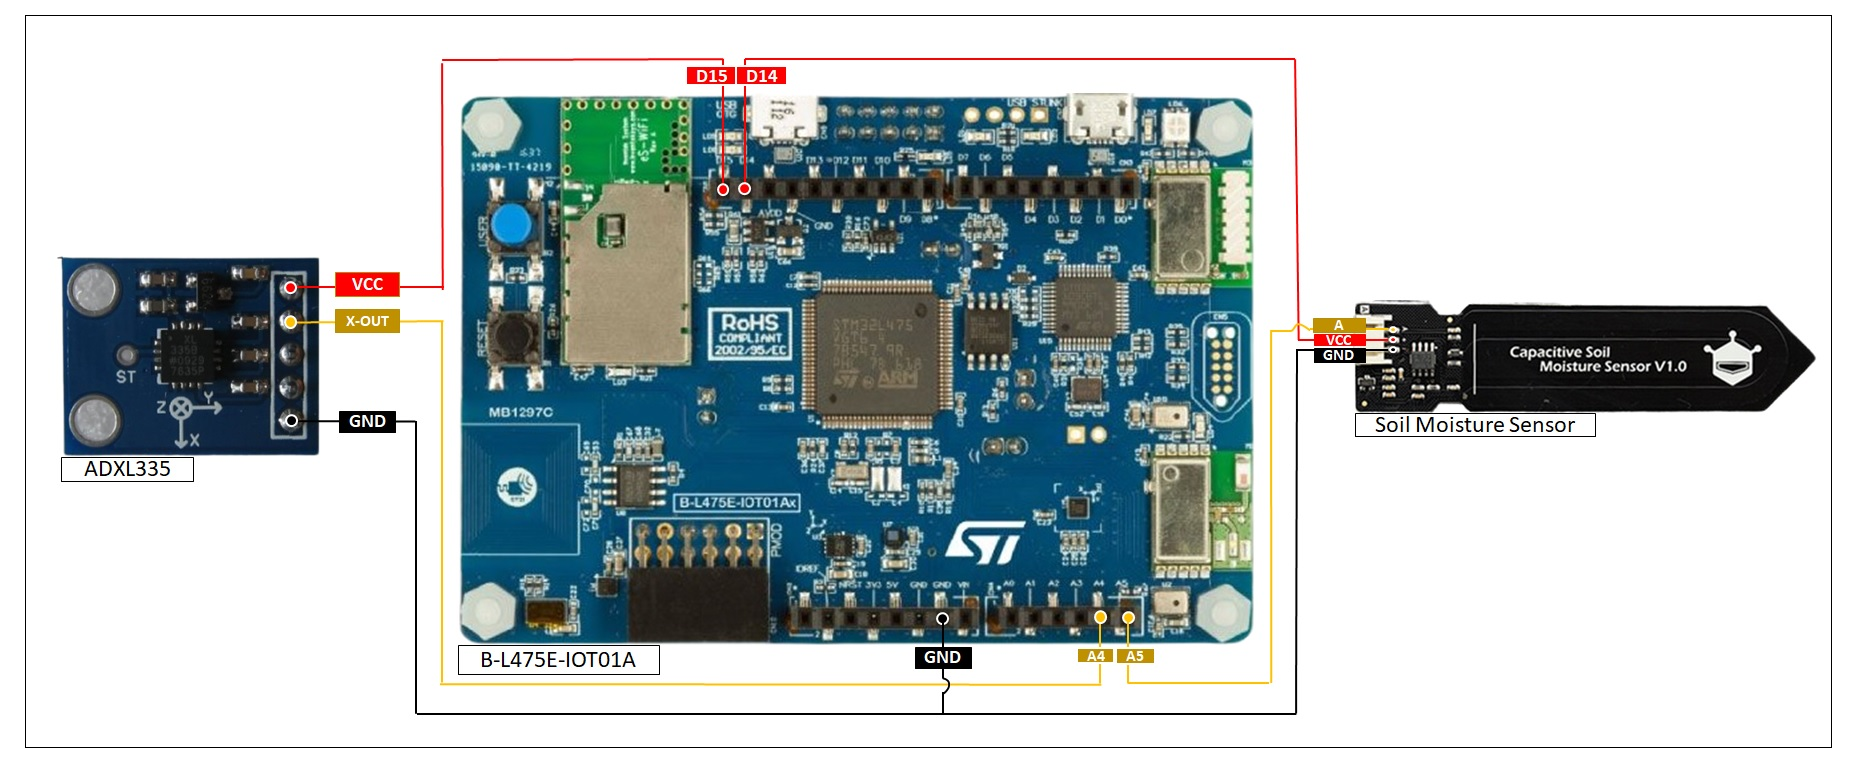
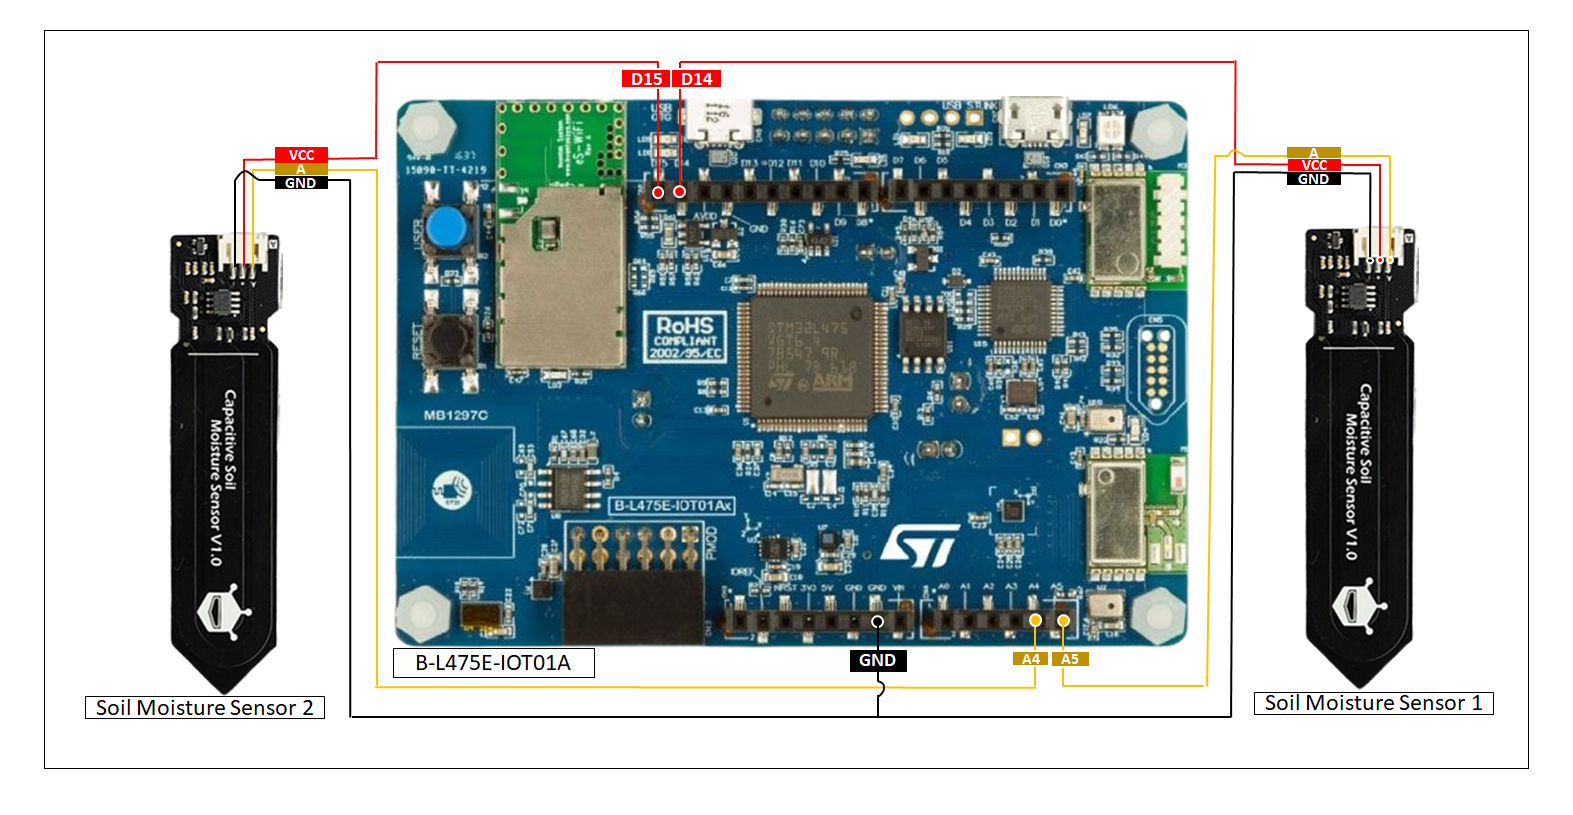
Nishant Shrivastava patch (#21)
* Update readme.md

* Update readme.md

* Update readme.md

* Update readme.md

* Update readme.md

* Update azure_config.h

* Update readme.md

* Update readme.md

* Update readme.md

* Added B-L475-IOT01A with 2 soil moisture Sensors

* Added MXChip Image with 2 Soil moisture sensors

* Update readme.md

* Update readme.md

* Add files via upload

* Update readme.md

* Update readme.md

diff --git a/MXChip/AZ3166/readme.md b/MXChip/AZ3166/readme.md
@@ -47,7 +47,7 @@ git clone --recursive https://github.com/Azure/Verified-Telemetry-Device-Sample.
 
 ### Install the tools
 
-The cloned repo contains a setup script that installs and configures the required tools. If you installed these tools in another tutorial in the getting started guide, you don't need to do it again.
+The cloned repo contains a setup script that installs and configures the required tools. If you have installed these tools in another tutorial in the getting started guide, you don't need to do it again.
 
 > Note: The setup script installs the following tools:
 > * [GCC](https://developer.arm.com/tools-and-software/open-source-software/developer-tools/gnu-toolchain/gnu-rm): Compile
@@ -58,8 +58,9 @@ The cloned repo contains a setup script that installs and configures the require
 To run the setup script:
 
 1. From File Explorer, navigate to the following path in the repo and run the setup script named *get-toolchain.bat*:
-
+ 
     > *Verified-Telemetry-Device-Sample\tools\get-toolchain.bat*
+
 
     After the installation completes, the Azure IoT Explorer opens automatically. Keep the IoT Explorer open, you'll use it in later steps.
 
@@ -151,15 +152,17 @@ This sample showcases Verified Telemetry feature for telemetry generated from tw
 
 * Connect Sensors         ***Verified Telemetry***
 
-    Refer to the table and images below to connect the two [Soil Moisture](https://www.dfrobot.com/product-1385.html) sensors
+
+    Refer to the table and images below to connect the two [Soil Moisture](https://www.dfrobot.com/product-1385.html) sensors.
+
     | Sensor Name   | Sensor Pin           | Sparkfun Edge Connector Pin | MXChip Pin |
     |---------------|----------------------|-----------------------------|------------|
-    | Soil Moisture Sensor 1 | Analog Out           | 0                           | PB0        |
-    | Soil Moisture Sensor 1 | VCC                  | 12                          | PB2        |
-    | Soil Moisture Sensor 1 | GND                  | GND                          | GND        |
-    | Soil Moisture Sensor 2       | Analog Out | 4                           | PA5        |
-    | Soil Moisture Sensor 2       | VCC                  | 8                           | PC13       |
-    | Soil Moisture Sensor 2       | GND                  | GND                           | GND       |
+    | Soil Moisture 1 | Analog Out           | 0                           | PB0        |
+    | Soil Moisture 1 | VCC                  | 12                          | PB2        |
+    | Soil Moisture 1| GND                  | GND                          | GND        |
+    | Soil Moisture 2       | Analog Out  | 4                           | PA5        |
+    | Soil Moisture 2       | VCC                  | 8                           | PC13       |
+    | Soil Moisture 2       | GND                  | GND                           | GND       |
     
 
     ![MXChip Sensor Connections](./media/MXChip_sensor_connections.png)

diff --git a/STMicroelectronics/STM32L4_L4+/readme.md b/STMicroelectronics/STM32L4_L4+/readme.md
@@ -47,7 +47,7 @@ git clone --recursive https://github.com/Azure/Verified-Telemetry-Device-Sample.
 
 ### Install the tools
 
-The cloned repo contains a setup script that installs and configures the required tools. If you installed these tools in another tutorial in the getting started guide, you don't need to do it again.
+The cloned repo contains a setup script that installs and configures the required tools. If you have installed these tools in another tutorial in the getting started guide, you don't need to do it again.
 
 > Note: The setup script installs the following tools:
 > * [GCC](https://developer.arm.com/tools-and-software/open-source-software/developer-tools/gnu-toolchain/gnu-rm): Compile
@@ -149,17 +149,17 @@ Confirm that you have the copied the following values from the JSON output to us
 This sample showcases Verified Telemetry feature for telemetry generated from two external sensors that are connected to STM DevKit
 * Connect Sensors         ***Verified Telemetry***
 
-    Refer to the table and image below to connect the two [Soil Moisture](https://www.dfrobot.com/product-1385.html) sensors: 
+
+    Refer to the table and image below to connect the two [Soil Moisture](https://www.dfrobot.com/product-1385.html) sensors.
 
     | Sensor Name   | Sensor Pin           | MCU Pin | Devkit Pin |
     |---------------|----------------------|-----------------------------|------------|
-    | Soil Moisture Sensor 1 | Analog Out           | PC0                           | A5        |
-    | Soil Moisture Sensor 1 | VCC                  | PB9                          | D14        |
-    | Soil Moisture Sensor 1 | GND                  | GND                          | GND        |
-    | Soil Moisture Sensor 2       | Analog Out | PC1                           | A4        |
-    | Soil Moisture Sensor 2       | VCC                  | PB8                           | D15       |
-    | Soil Moisture Sensor 2       | GND                  | GND                           | GND       |
-    
+    | Soil Moisture 1 | Analog Out           | PC0                           | A5        |
+    | Soil Moisture 1 | VCC                  | PB9                          | D14        |
+    | Soil Moisture 1 | GND                  | GND                          | GND        |
+    | Soil Moisture 2       | Analog Out  | PC1                           | A4        |
+    | Soil Moisture 2       | VCC                  | PB8                           | D15       |
+    | Soil Moisture 2       | GND                  | GND                           | GND       |
 
 
     ![B-L475E-IOT01A Sensor Connections](media/B-L475E-IOT01A_sensor_connections.png)
